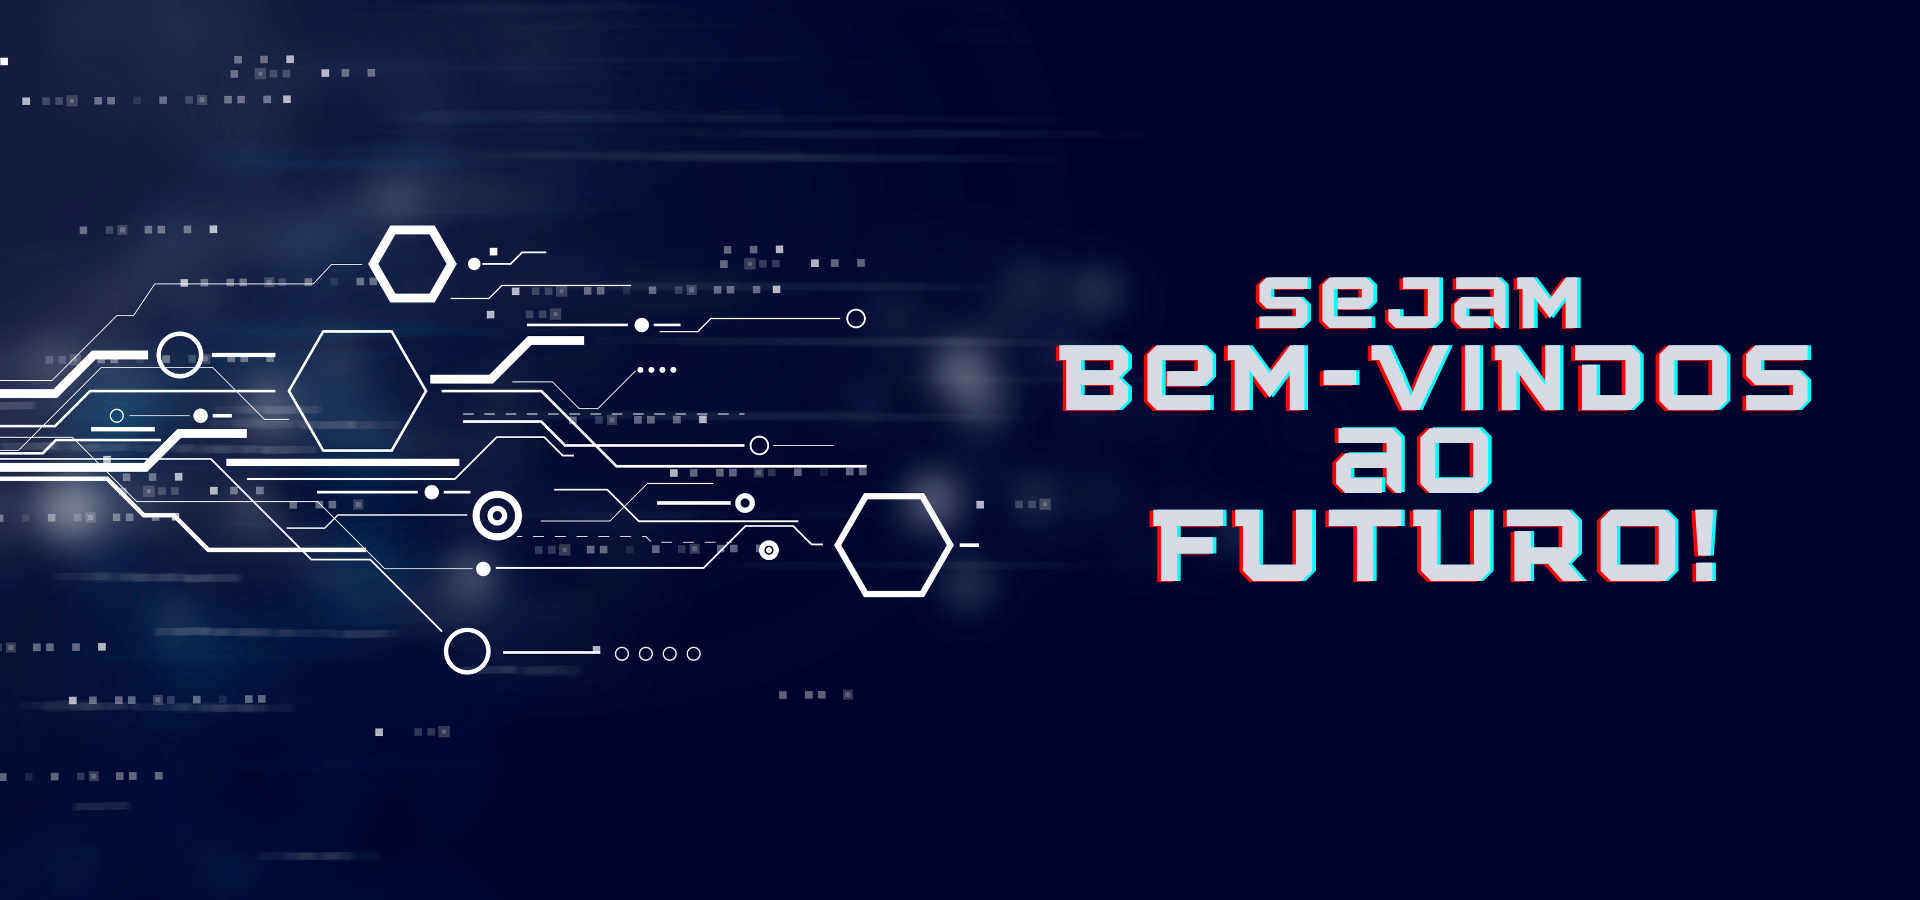
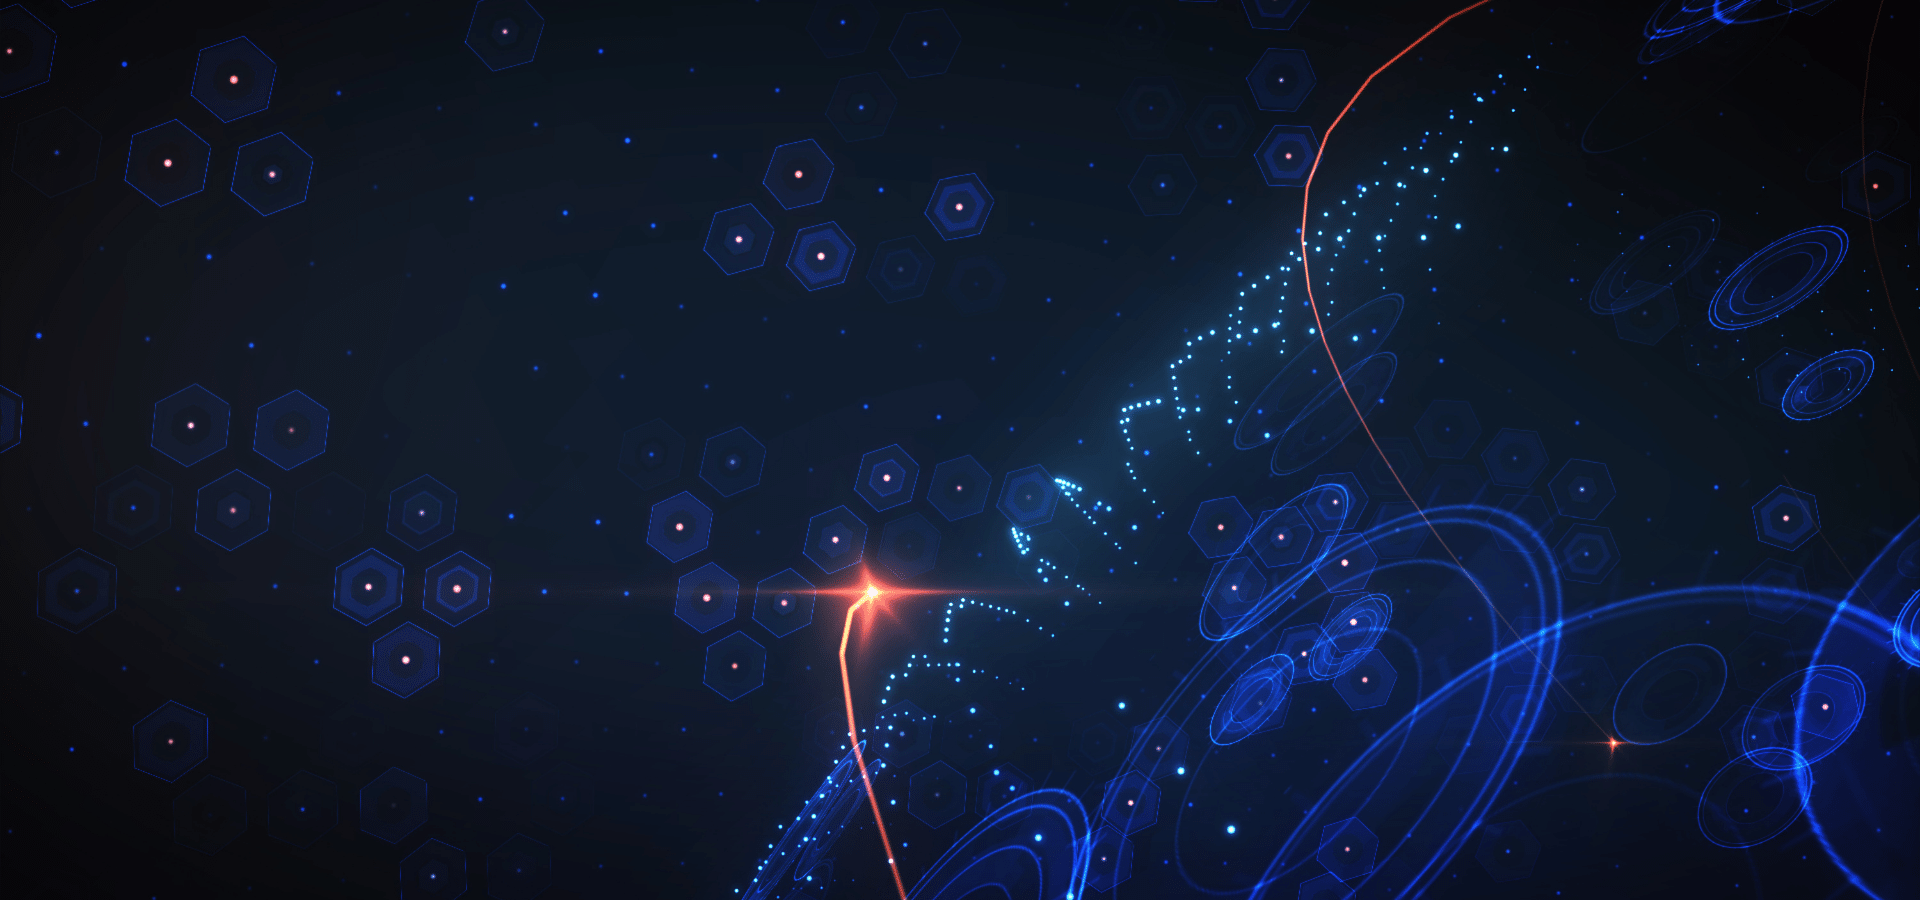
Update

diff --git a/index.html b/index.html
@@ -27,25 +27,11 @@
 </header>
 
 <section class="section1">
-    <img src="assets/images/Banner/2.png" id="stars">
+    <img src="assets/images/Banner/1.png" id="stars">
 </section>
 <div class="sec" id="sec"> 
 
-<!-- 1 --> 
-<section id="one" class="main style1">
-  <div class="container2">
-    <div class="row gtr-150">
-      <div class="col-6 col-12-medium">
-        <p>Adipiscing a commodo ante nunc accumsan et interdum mi ante adipiscing. A nunc lobortis non nisl amet vis sed volutpat aclacus nascetur ac non. Lorem curae et ante amet sapien sed tempus adipiscing id accumsan.</p>
-      </div>
-      <div class="col-6 col-12-medium imp-medium">
-        <span class="image fit"><img src="assets/images/pic01.jpg" alt="" /></span>
-      </div>
-    </div>
-  </div>
-</section>
-
-<!-- 2 -->
+<!-- 1 -->
 <section id="two" class="main style2">
   <div class="container2">
     <div class="row gtr-150">
@@ -60,38 +46,67 @@
         </ul>
       </div>
       <div class="col-6 col-12-medium">
-        <header class="major">
-        </header>
-        <p>Adipiscing a commodo ante nunc accumsan interdum mi ante adipiscing. A nunc lobortis non nisl amet vis volutpat aclacus nascetur ac non. Lorem curae eu ante amet sapien in tempus ac. Adipiscing id accumsan adipiscing ipsum.</p>
-        <p>Blandit faucibus proin. Ac aliquam integer adipiscing enim non praesent vis commodo nunc phasellus cubilia ac risus accumsan. Accumsan blandit. Lobortis phasellus non lobortis dit varius mi varius accumsan lobortis. Blandit ante aliquam lacinia lorem lobortis semper morbi col faucibus vitae integer placerat accumsan orci eu mi odio tempus adipiscing adipiscing adipiscing curae consequat feugiat etiam dolore.</p>
-        <p>Adipiscing a commodo ante nunc accumsan interdum mi ante adipiscing. A nunc lobortis non nisl amet vis volutpat aclacus nascetur ac non. Lorem curae eu ante amet sapien in tempus ac. Adipiscing id accumsan adipiscing ipsum.</p>
+        <h1 style="padding: 20px 0 20px 0;">Nossa plataforma de aprendizagem online é a chave para desbloquear um futuro brilhante no mundo da tecnologia.</h1>
+    <p>Oferecemos uma ampla gama de cursos especializados em Front-End, Back-End e Bancos de Dados, proporcionando uma experiência de aprendizado abrangente e imersiva.</p>
+
+    <h3 style="padding: 20px 0 20px 0;">Benefícios Exclusivos:</h3>
+    <ul>
+        <li>Profundize Seus Conhecimentos: Dos princípios básicos aos conceitos avançados, nossos cursos são projetados para guiá-lo na maestria do Front-End, Back-End e Bancos de Dados.</li>
+        <li>Instrutores Especializados: Conte com orientação de profissionais experientes, prontos para compartilhar suas vastas experiências e insights valiosos.</li>
+        <li>Projetos Práticos e Desafiadores: Aplique o que aprendeu em projetos reais, solidificando seu entendimento e construindo um portfólio impressionante.</li>
+        <li>Flexibilidade de Aprendizado: Estude no seu próprio ritmo, adaptando os cursos ao seu cronograma e prioridades.</li>
+        <li>Certificações Reconhecidas: Ganhe certificados que validam suas habilidades, destacando-se em um mercado de trabalho competitivo.</li>
+        <li>Comunidade Ativa e Colaborativa: Faça parte de uma comunidade vibrante de aprendizes e profissionais, onde a troca de conhecimentos e a colaboração são incentivadas.</li>
+        <li>Atualizações Constantes: Mantenha-se à frente das últimas tendências e tecnologias em Front-End, Back-End e Bancos de Dados, garantindo que você esteja sempre na vanguarda da indústria.</li>
+    </ul>
+    </div>
+    </div>
+  </div>
+</section>
+
+<!-- 2 --> 
+<section id="one" class="main style1">
+  <div class="container2">
+    <h1 style="font-size: 35px;">Desenvolvimento Web</h1><br>
+    <div class="row gtr-150">
+      <div class="col-6 col-12-medium">
+        <p>Descubra um mundo de possibilidades na nossa plataforma de aprendizagem online de ponta! Quer se torne um mestre no design de interfaces com cursos Front-End, domine a mágica dos sistemas robustos com Back-End ou mergulhe no universo dos Bancos de Dados, temos o curso perfeito para você.</p><br>
+      <ul>
+        <li>Front-End: Torne-se um maestro da experiência do usuário, criando interfaces visuais deslumbrantes e interativas.</li><br>
+        <li>Back-End: Construa sistemas poderosos e escaláveis para sustentar as aplicações mais inovadoras.</li><br>
+        <li>Bancos de Dados: Domine o coração pulsante da informação, garantindo acesso eficiente e seguro aos dados.</li><br>
+      </ul>
+      </div>
+      <div class="col-6 col-12-medium imp-medium">
+        <span class="image fit"><img src="assets/images/image1.png "alt= /></span>
       </div>
     </div>
   </div>
 </section>
+
 
 <!-- 3 -->
 <section id="three" class="main style1 special">
   <div class="container2">
     <div class="row gtr-150">
       <div class="col-4 col-12-medium">
-        <span class="image fit"><img src="/assets/images/pic02.jpg" alt="" /></span>
-        <h3>Magna feugiat lorem</h3>
-        <p>Adipiscing a commodo ante nunc magna lorem et interdum mi ante nunc lobortis non amet vis sed volutpat et nascetur.</p>
+        <span class="image fit"><img src="/assets/images/1 (1).png" alt="" /></span>
+        <h3>Front-End</h3>
+        <p>O Front-end chamativo é a habilidade de criar interfaces que não apenas funcionam de forma eficaz, mas também cativam e encantam os usuários desde o primeiro contato.</p>
         <ul class="actions special">
         </ul>
       </div>
       <div class="col-4 col-12-medium">
-        <span class="image fit"><img src="/assets/images/pic03.jpg" alt="" /></span>
-        <h3>Magna feugiat lorem</h3>
-        <p>Adipiscing a commodo ante nunc magna lorem et interdum mi ante nunc lobortis non amet vis sed volutpat et nascetur.</p>
+        <span class="image fit"><img src="/assets/images/2 (1).png" alt="" /></span>
+        <h3>Back-End</h3>
+        <p>O Back-end chamativo é a arte de criar sistemas robustos e eficientes que sustentam as experiências digitais extraordinárias.</p>
         <ul class="actions special">
         </ul>
       </div>
       <div class="col-4 col-12-medium">
-        <span class="image fit"><img src="/assets/images/pic04.jpg" alt="" /></span>
-        <h3>Magna feugiat lorem</h3>
-        <p>Adipiscing a commodo ante nunc magna lorem et interdum mi ante nunc lobortis non amet vis sed volutpat et nascetur.</p>
+        <span class="image fit"><img src="/assets/images/3 (1).png" alt="" /></span>
+        <h3>Banco de Dados</h3>
+        <p>Um banco de dados é o coração pulsante de qualquer sistema de informação digital. É um conjunto organizado de dados que são armazenados e gerenciados de forma estruturada para facilitar o acesso.</p>
         <ul class="actions special">
         </ul>
       </div>

diff --git a/quem-somos.html b/quem-somos.html
@@ -60,17 +60,17 @@
           <div class="card1">
             <img src="/assets/images/missao.png" alt="Ícone Missão">
             <h3>Missão</h3>
-            <p>Sua missão aqui...</p>
+            <p>A nossa missão é capacitar indivíduos através da educação online, fornecendo cursos de alta qualidade que impulsionam o crescimento pessoal e profissional, promovendo assim uma sociedade mais informada e capacitada.</p>
           </div>
           <div class="card1">
             <img src="/assets/images/visao.png" alt="Ícone Visão">
             <h3>Visão</h3>
-            <p>Sua visão aqui...</p>
+            <p>Nossa visão é ser a referência global em educação online, promovendo o acesso inclusivo ao conhecimento e capacitando milhões de pessoas a alcançarem seus objetivos, transformando-as em líderes e inovadores em suas áreas de atuação.</p>
           </div>
           <div class="card1">
             <img src="/assets/images/valor.png" alt="Ícone Valores">
             <h3>Valores</h3>
-            <p>Seus valores aqui...</p>
+            <p>Nossos valores fundamentais incluem a excelência na educação, a inovação constante, a acessibilidade ao conhecimento, a ética e integridade em todas as interações, e o compromisso com o sucesso e crescimento de nossos alunos.</p>
           </div>
 
       </div>
@@ -81,7 +81,7 @@
 <footer>
   <div id="footer_content">
       <div id="footer_contacts">
-          <h1>Logo</h1>
+          <h1>LOGO</h1>
           <p>Vamos juntos nessa jornada!</p>
 
           <div id="footer_social_media">

diff --git a/assets/css/style.css b/assets/css/style.css
@@ -478,7 +478,7 @@ h2 {
   justify-content: space-around;
   align-items: center;
   background-color: #e9e9e9;
-  padding: 50px;
+  padding: 40px;
 }
 
 .empresa-texto1 {
@@ -588,49 +588,6 @@ h2 {
 
 
 /* cursos */
-.carousel-container {
-  display: flex;
-  align-items: center;
-}
-
-.carousel {
-  display: flex;
-  overflow-x: hidden;
-}
-
-.video {
-  flex: 0 0 300px;
-  margin: 0 10px;
-  transition: transform 0.5s;
-}
-
-iframe {
-  width: 100%;
-  height: 500px; 
-  border: none;
-}
-
-.arrow {
-  font-size: 24px;
-  background: none;
-  border: none;
-  cursor: pointer;
-  outline: none;
-}
-
-.left-arrow {
-  transform: rotate(180deg);
-}
-
-.right-arrow {
-  transform: none;
-}
-
-@media (max-width: 768px) {
-  .video {
-      flex: 0 0 200px;
-  }
-}
 
 /* Footer */
 

diff --git a/front.html b/front.html
@@ -92,21 +92,6 @@
 
 <!-- HOME -->
 
-<div class="carousel-container">
-  <button class="arrow left-arrow">&#9665;</button>
-  <div class="carousel">
-      <div class="video">
-          <iframe src="https://www.youtube.com/embed/VIDEO_ID1" frameborder="0" allowfullscreen></iframe>
-      </div>
-      <div class="video">
-          <iframe src="https://www.youtube.com/embed/VIDEO_ID2" frameborder="0" allowfullscreen></iframe>
-      </div>
-      <div class="video">
-          <iframe src="https://www.youtube.com/embed/VIDEO_ID2" frameborder="0" allowfullscreen></iframe>
-      </div>
-  <button class="arrow right-arrow">&#9655;</button>
-</div>
-
 
 <script src="/assets/js/script.js"></script>
 </body>

diff --git a/assets/css/home.css b/assets/css/home.css
@@ -62,7 +62,7 @@ header ul li a.active {
 .section1 {
     position: relative;
     width: 100%;
-    height: 80vh;
+    height: 70vh;
     padding: 200px;
     display: flex;
     justify-content: center;
@@ -87,7 +87,7 @@ header ul li a.active {
 	.container2 {
 		margin: 0 auto;
 		max-width: calc(100% - 4em);
-		width: 65em;
+		width: 60em;
 	}
 
 		.container2.xsmall {

diff --git a/forms.html b/forms.html
@@ -59,7 +59,6 @@
       </div>
     </div>
   </div>
-  <a href="cursos.html">Link</a>
   <script src='https://unpkg.com/ionicons@5.5.2/dist/ionicons/ionicons.js'></script>
   <script src='https://unpkg.com/ionicons@5.5.2/dist/ionicons/ionicons.esm.js'></script>
   <script src="/assets/js/forms.js"></script>

diff --git a/contato.html b/contato.html
@@ -93,7 +93,7 @@
 <footer>
   <div id="footer_content">
       <div id="footer_contacts">
-          <h1>Logo</h1>
+          <h1>LOGO</h1>
           <p>Vamos juntos nessa jornada!</p>
 
           <div id="footer_social_media">

diff --git a/assets/css/forms.css b/assets/css/forms.css
@@ -11,7 +11,7 @@ body {
   height: 100%;
   width: 100%;
   place-items: center;
-  background: #adadad;
+  background: #010624;
 }
 ::selection {
   background: #cccccc;
